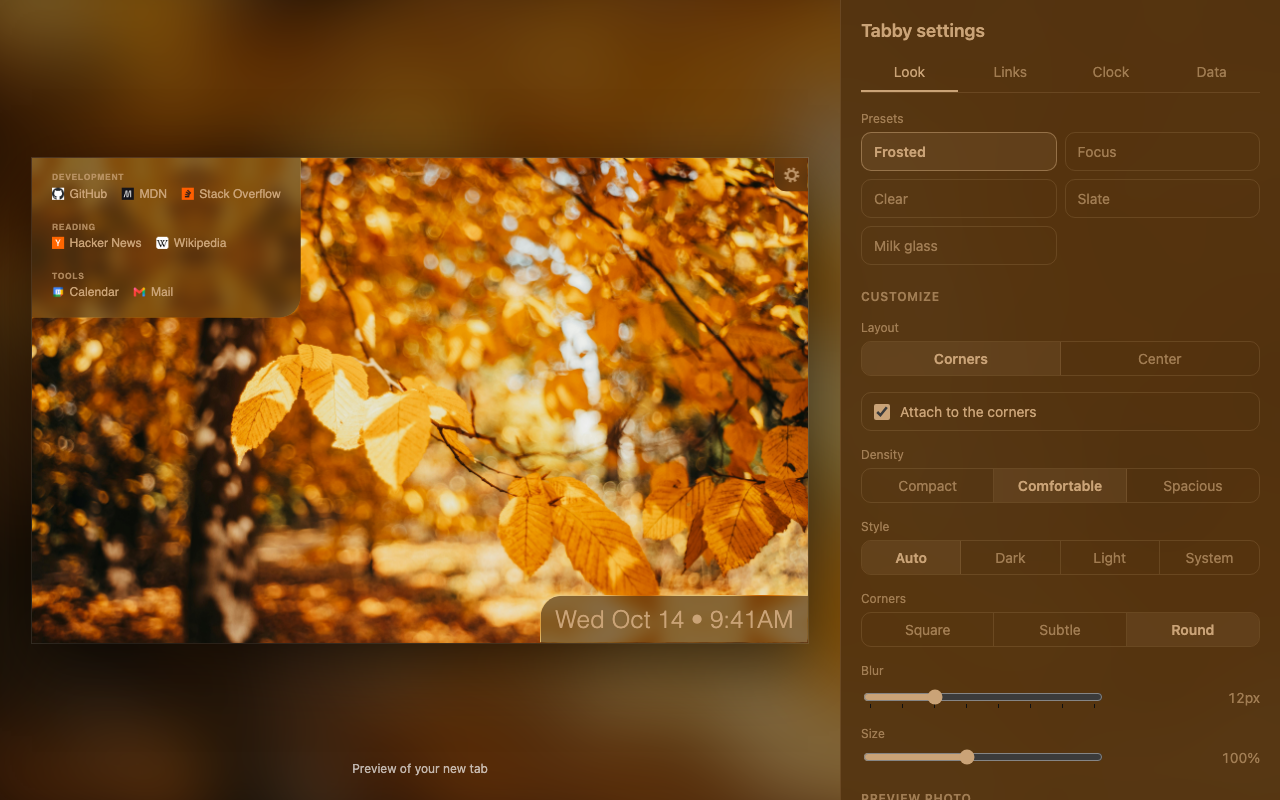
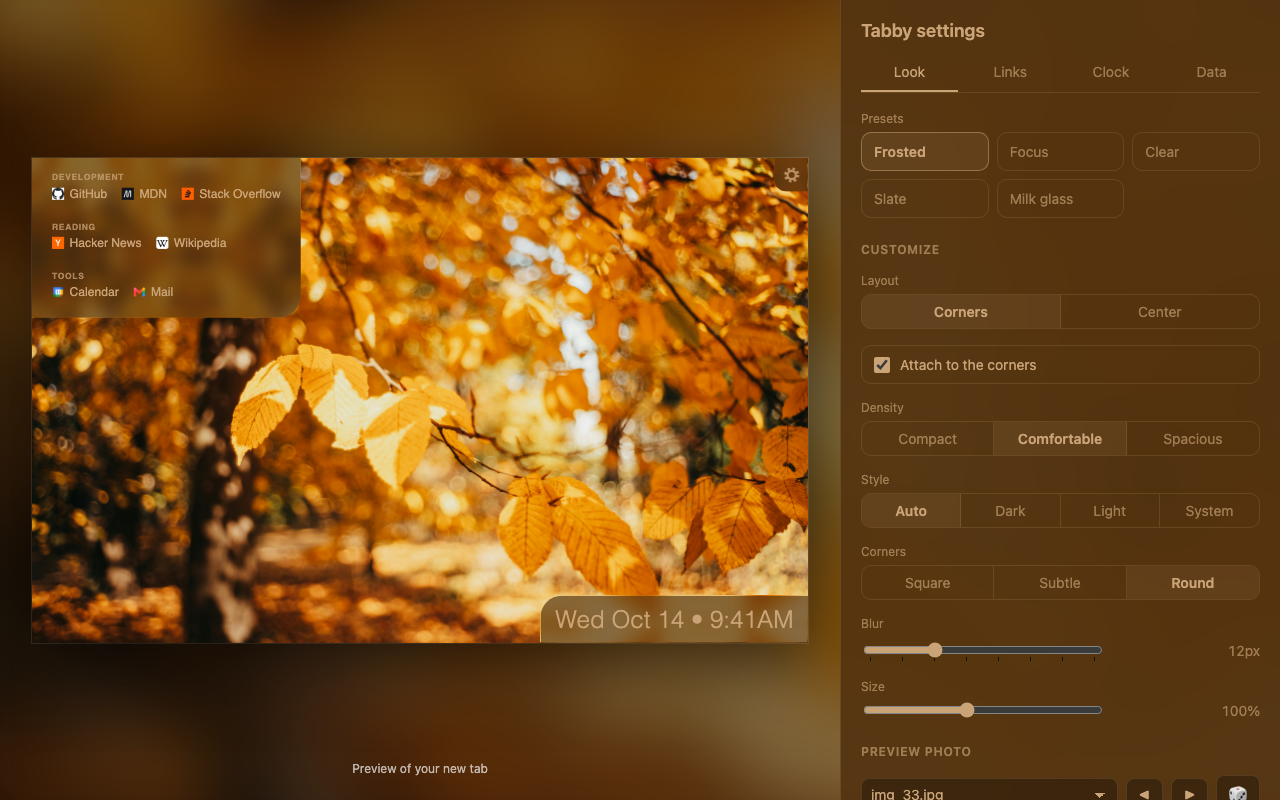
Presets three to a row (#59)
Fits three preset buttons per row instead of two.

🤖 Generated with [Claude Code](https://claude.com/claude-code)

diff --git a/options.html b/options.html
@@ -275,10 +275,11 @@
         display: none;
       }
 
-      /* Presets as buttons, two or three to a row */
+      /* Presets as buttons, three to a row (the drawer's width fits three of
+         the longest name, "Milk glass") */
       .preset-grid {
         display: grid;
-        grid-template-columns: repeat(auto-fill, minmax(8.5rem, 1fr));
+        grid-template-columns: repeat(3, 1fr);
         gap: 8px;
       }
 
